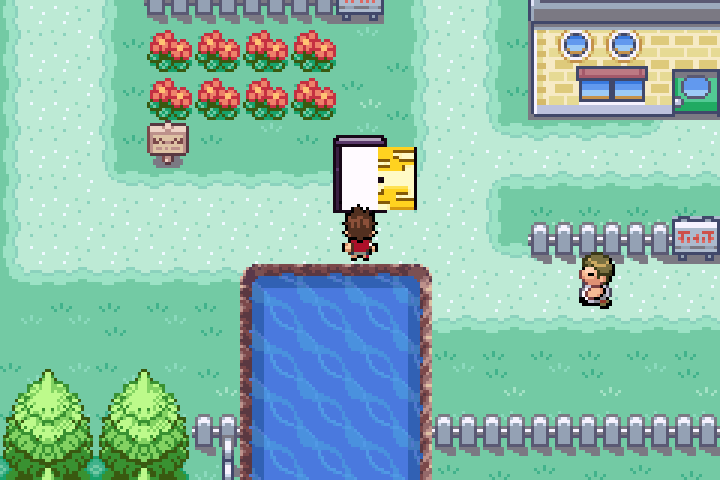
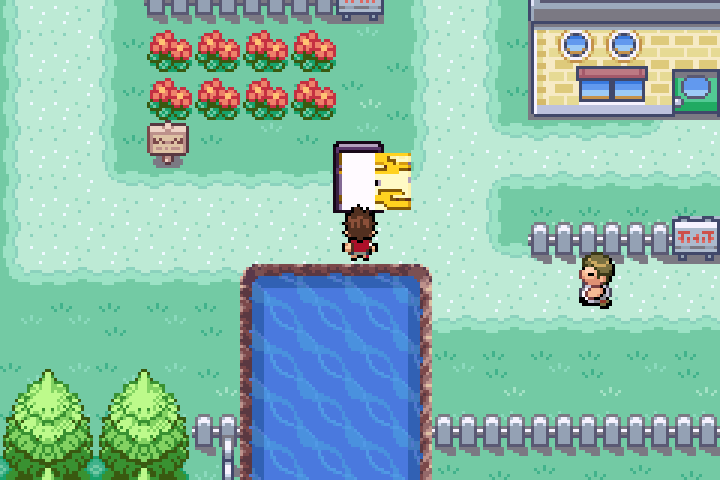
fix: réduire la porte à cinq pixels de plus que Nathan

Changed region(s): [[0.4583, 0.2812, 0.5806, 0.4375]]

diff --git a/tools/yokai/convertir_porte_terreur.py b/tools/yokai/convertir_porte_terreur.py
@@ -7,13 +7,16 @@ R=Path(__file__).resolve().parents[2];D=R/'graphics/yokai_characters/porte_terre
 source=D/'source/planche-generee.png';im=Image.open(source).convert('RGBA')
 def figure(box):
  p=im.crop(box);p.putalpha(p.getchannel('A').point(lambda a:255 if a>=128 else 0));return p.crop(p.getbbox())
-closed=figure((30,130,380,610)).resize((18,26),Image.Resampling.NEAREST)
+reference=Image.open(R/'graphics/yokai_characters/nathan/normal.png').convert('RGBA').crop((0,0,16,32)).getbbox()
+nathan_height=reference[3]-reference[1];height=nathan_height+5
+width=round(18*height/26);left=(32-width)//2;top=reference[3]-height
+closed=figure((30,130,380,610)).resize((width,height),Image.Resampling.NEAREST)
 # The same jamb is retained in every pose. Only this exact leaf rectangle is
 # exposed, so compositing the leaf at offset zero reproduces CLOSED byte-for-byte.
-bounds=(10,9,23,30);distance=bounds[2]-bounds[0]
+bounds=(left+round(3*width/18),top+round(4*height/26),left+round(16*width/18),top+round(25*height/26));distance=bounds[2]-bounds[0]
 colors=[(0,0,0),(24,8,24),(56,32,64),(88,56,104),(128,104,144),(184,160,192),(248,248,248),(248,240,168),(248,208,32),(208,152,16),(128,88,8),(248,248,192),(248,224,80),(96,48,24),(176,160,184),(8,0,8)]
 flat=[v for c in colors for v in c]+[0]*720
-canvas=Image.new('RGBA',(32,32));canvas.paste(closed,(7,5))
+canvas=Image.new('RGBA',(32,32));canvas.paste(closed,(left,top))
 closed=Image.new('P',(32,32));closed.putpalette(flat)
 # Pure white belongs only to the revealed opening, never a closed corner.
 closed.putdata([0 if a<128 else min([i for i in range(1,16) if i!=6],key=lambda i:sum((v-colors[i][j])**2 for j,v in enumerate((r,g,b)))) for r,g,b,a in canvas.get_flattened_data()])
@@ -22,6 +25,8 @@ leaf=Image.new('P',(32,32));leaf.putpalette(flat);leaf.paste(closed.crop(bounds)
 mask=Image.new('L',(32,32));mask.putdata([255 if i else 0 for i in leaf.get_flattened_data()])
 sealed=opened.copy();sealed.paste(leaf,(0,0),mask)
 assert sealed.tobytes()==closed.tobytes(), 'Leaf/frame gap in the closed composition'
+assert closed.getbbox()[3]-closed.getbbox()[1]==height
+assert height-nathan_height==5
 assert 6 not in set(closed.tobytes()), 'White pixel leaked into the closed door'
 assert set(opened.crop(bounds).tobytes())=={6}, 'Portal is not uniformly white'
 assert not any(g>r and g>b for r,g,b in colors), 'Green entry remains'
@@ -29,4 +34,4 @@ sheet=Image.new('P',(64,32));sheet.putpalette(flat);sheet.paste(closed,(0,0));sh
 sheet.save(D/'overworld.png',transparency=0);leaf.save(D/'panneau.png',transparency=0)
 sheet.convert('RGBA').resize((384,192),Image.Resampling.NEAREST).save(P/'fermee-ouverte-x6.png')
 (D/'normal.pal').write_text('JASC-PAL\n0100\n16\n'+'\n'.join(' '.join(map(str,c)) for c in colors)+'\n')
-(D/'CONVERSION.json').write_text(json.dumps(dict(source_sha256=hashlib.sha256(source.read_bytes()).hexdigest(),frame_size=[32,32],visible_height=26,nathan_height=19,leaf_bounds=bounds,translation_pixels=distance,closed_composition_exact=True,portal_uniform_white=True,green_palette_entries=0,method='generated artwork converted to native frame; same frame retained, exact rigid leaf rectangle replaced with white'),indent=2)+'\n')
+(D/'CONVERSION.json').write_text(json.dumps(dict(source_sha256=hashlib.sha256(source.read_bytes()).hexdigest(),frame_size=[32,32],visible_height=height,nathan_height=nathan_height,leaf_bounds=bounds,translation_pixels=distance,closed_composition_exact=True,portal_uniform_white=True,green_palette_entries=0,method='generated artwork converted to native frame; same frame retained, exact rigid leaf rectangle replaced with white'),indent=2)+'\n')

diff --git a/tools/yokai/capturer_porte_terreur_mgba.py b/tools/yokai/capturer_porte_terreur_mgba.py
@@ -27,7 +27,7 @@ def attempt(record):
    panelId=struct.unpack('<h',r.read(t+8,2))[0];panel_ids.add(panelId);ps=r.symbols['gSprites']+68*panelId
    shift=struct.unpack('<h',r.read(ps+36,2))[0];positions.add(shift)
    if record and shift==6 and not half:shot('coulissement');half=True
-   if record and shift==13 and not opened:shot('ouverte');opened=True
+   if record and shift==12 and not opened:shot('ouverte');opened=True
   im=r.frame.copy();isWhite=all(lo==hi and lo>=248 for lo,hi in im.getextrema())
   if isWhite:
    assert r.read(0x05000000,1024)==b'\xff\x7f'*512, 'White frame without fully white hardware palettes'
@@ -39,12 +39,12 @@ def attempt(record):
    # Field controls are released only after the demo fade-in. Settle before checking its closed tile.
    r.run(30);break
  else:raise AssertionError(('Interaction did not finish',seen,white,positions))
- assert seen and white and set(range(14))<=positions,(seen,white,positions)
+ assert seen and white and set(range(13))<=positions,(seen,white,positions)
  for panel_id in panel_ids:
   assert not r.read(r.symbols['gSprites']+68*panel_id+62,1)[0]&1, 'Leaked sliding panel sprite'
  tile=int.from_bytes(r.read(sprite+4,2),'little')&1023
  assert r.read(0x06010000+tile*32,512)==raw[:512],'Door did not close after the demonstration'
- checks.append(dict(test='Native A interaction: rigid leaf slides 0..13 pixels, full white fade, unchanged location, closed/reset and controls restored',replay=not record,passed=True))
+ checks.append(dict(test='Native A interaction: rigid leaf slides 0..12 pixels, full white fade, unchanged location, closed/reset and controls restored',replay=not record,passed=True))
 try:
  r.call('CreateMon',r.symbols['gPlayerParty'],1,50,31,1,12345,0,0);r.write(r.symbols['gPlayerPartyCount'],b'\1');r.call('FlagSet',0x828)
  g,n=maps['PalletTown'];r.call('SetWarpDestination',g,n,255,9,16);r.call('WarpIntoMap');r.call('SetMainCallback2',r.symbols['CB2_LoadMap']|1);r.run(400)
@@ -56,7 +56,7 @@ try:
  sprite=r.symbols['gSprites']+68*r.read(obj+4,1)[0];raw=(ROOT/'graphics/yokai_characters/porte_terreur/overworld.4bpp').read_bytes();assert len(raw)==1024
  tile=int.from_bytes(r.read(sprite+4,2),'little')&1023;assert r.read(0x06010000+tile*32,512)==raw[:512]
  r.run(90);assert r.read(0x06010000+tile*32,512)==raw[:512]
- shot('fermee');checks.append(dict(test='Closed frame stays closed before interaction, door 26px vs Nathan 19px',passed=True))
+ shot('fermee');checks.append(dict(test='Closed frame stays closed before interaction, door 24px vs Nathan 19px',passed=True))
  start=location();r.keys={4};r.run(4);r.keys=set();r.run(30);assert location()==start
  for _ in range(12):r.run(3);movie.append(r.frame.copy())
  attempt(True);shot('retour-apercu');attempt(False)

diff --git a/src/porte_terreur.c b/src/porte_terreur.c
@@ -29,10 +29,10 @@ static void Task_PorteTerreur(u8 taskId)
     switch (data[3])
     {
     case 0:
-        // The same leaf tiles are translated 13 pixels, one pixel every two
+        // The same leaf tiles are translated 12 pixels, one pixel every two
         // frames. The stationary jamb and the player do not move.
         panel->x2 = ++data[2] / 2;
-        if (data[2] == 26) { data[2] = 0; data[3]++; }
+        if (data[2] == 24) { data[2] = 0; data[3]++; }
         break;
     case 1:
         if (++data[2] == 18)

diff --git a/docs/porte-terreur-20261024/RAPPORT.md b/docs/porte-terreur-20261024/RAPPORT.md
@@ -1,10 +1,10 @@
 # Porte coulissante : prototype dans le jeu
 
-La première pose représente une porte **complètement fermée** : panneau opaque crème et or couvrant toute l'ouverture, cadre sombre sans pixels verts, aucune fente de portail blanc. Le sprite visible mesure 26 pixels de haut, contre 19 pour Nathan.
+La première pose représente une porte **complètement fermée** : panneau opaque crème et or couvrant toute l'ouverture, cadre sombre sans pixels verts, aucune fente de portail blanc. Le sprite visible mesure 24 pixels de haut, contre 19 pour Nathan.
 
 [Aperçu mGBA ×3](public/ouverture-fondu-mgba-x3.gif) — [porte fermée](public/fermee-x3.png) — [panneau en cours de coulissement](public/coulissement-x3.png) — [porte ouverte](public/ouverte-x3.png) — [fondu blanc](public/fondu-blanc-x3.png).
 
-L'interaction par A crée un panneau temporaire reprenant exactement les mêmes tuiles que le panneau fermé. Le moteur le translate vers la droite de 13 pixels, un pixel toutes les deux images, devant un cadre fixe. Après l'ouverture, il lance un fondu blanc sur toutes les palettes. Le panneau temporaire est détruit et la porte réinitialisée sous le blanc, puis le script appelant reprend. La destination reste à définir : aucun warp n'est ajouté.
+L'interaction par A crée un panneau temporaire reprenant exactement les mêmes tuiles que le panneau fermé. Le moteur le translate vers la droite de 12 pixels, un pixel toutes les deux images, devant un cadre fixe. Après l'ouverture, il lance un fondu blanc sur toutes les palettes. Le panneau temporaire est détruit et la porte réinitialisée sous le blanc, puis le script appelant reprend. La destination reste à définir : aucun warp n'est ajouté.
 
 Le script de démonstration attend brièvement sur le blanc puis revient à la même scène, libère les commandes et permet une nouvelle ouverture. Aucun événement de carte permanent ne référence cette porte : l'emplacement à Bourg Palette est préparé uniquement dans la RAM de l'émulateur. Le script d'interaction, la ressource et le special sont disponibles pour une intégration ultérieure.
 
@@ -12,7 +12,7 @@ Le script de démonstration attend brièvement sur le blanc puis revient à la m
 
 Compilation publique réussie. La capture provient de mGBA, sans montage du sprite sur le décor ni injection des positions intermédiaires ou du fondu. Le banc remplace temporairement un modèle d'acteur de carte, place le joueur devant la porte, et l'ouvre par une vraie pression sur A.
 
-Contrôles : tuiles de porte fermée inchangées avant interaction ; tentative de déplacement bloquée devant son acteur ; coulissement natif observé de 0 à 13 pixels ; image uniformément blanche et toutes les palettes matérielles égales à `0x7FFF` ; coordonnées et carte du joueur inchangées ; retour à la pose fermée ; reprise des commandes ; panneau temporaire détruit ; seconde ouverture réussie. [Résultats et empreinte de la ROM de démonstration](public/TEST.json).
+Contrôles : tuiles de porte fermée inchangées avant interaction ; tentative de déplacement bloquée devant son acteur ; coulissement natif observé de 0 à 12 pixels ; image uniformément blanche et toutes les palettes matérielles égales à `0x7FFF` ; coordonnées et carte du joueur inchangées ; retour à la pose fermée ; reprise des commandes ; panneau temporaire détruit ; seconde ouverture réussie. [Résultats et empreinte de la ROM de démonstration](public/TEST.json).
 
 Les captures fermée / intermédiaire / ouverte ont été inspectées visuellement. Cet essai valide le prototype à Bourg Palette, sans encore tester une destination ou l'intégrer à un chapitre. Aucune sauvegarde utilisateur chargée, aucune musique modifiée, aucune ROM publiée, aucune fusion sur master.
 
@@ -20,4 +20,8 @@ Sources : `src/porte_terreur.c`, `data/scripts/porte_terreur.inc`, `graphics/yok
 
 ## Ajustement du cadre et du panneau
 
-Tous les pixels verts ont été retirés. Le portail révélé est un rectangle uniformément blanc (indice de palette dédié, RGB GBA 31/31/31). Le cadre ouvert est dérivé exactement du cadre fermé : seul le rectangle couvert par le panneau est remplacé par du blanc. Le panneau découpé dans cette même image recouvre ce rectangle pixel pour pixel à la fermeture ; le convertisseur vérifie que cette composition reproduit exactement l'image fermée et qu'aucun pixel blanc pur n'y est présent. Sa course correspond désormais à sa largeur (13 pixels), ce qui maintient le panneau contre le cadre à pleine ouverture. Les trois états ont été revérifiés visuellement dans mGBA ; ouverture, fondu blanc complet et réouverture passent toujours.
+Tous les pixels verts ont été retirés. Le portail révélé est un rectangle uniformément blanc (indice de palette dédié, RGB GBA 31/31/31). Le cadre ouvert est dérivé exactement du cadre fermé : seul le rectangle couvert par le panneau est remplacé par du blanc. Le panneau découpé dans cette même image recouvre ce rectangle pixel pour pixel à la fermeture ; le convertisseur vérifie que cette composition reproduit exactement l'image fermée et qu'aucun pixel blanc pur n'y est présent. Sa course correspond désormais à sa largeur (12 pixels), ce qui maintient le panneau contre le cadre à pleine ouverture. Les trois états ont été revérifiés visuellement dans mGBA ; ouverture, fondu blanc complet et réouverture passent toujours.
+
+## Taille ajustée à Nathan
+
+La porte mesure désormais 24 pixels visibles, soit exactement 5 de plus que Nathan (19). Sa largeur suit la même réduction de proportions. Le rectangle du panneau et sa course ont été recalculés ensemble : 12 pixels de coulissement, toujours sans vert ni fuite blanche à la fermeture. Compilation et deux ouvertures natives avec fondu blanc complet revérifiées dans mGBA.
